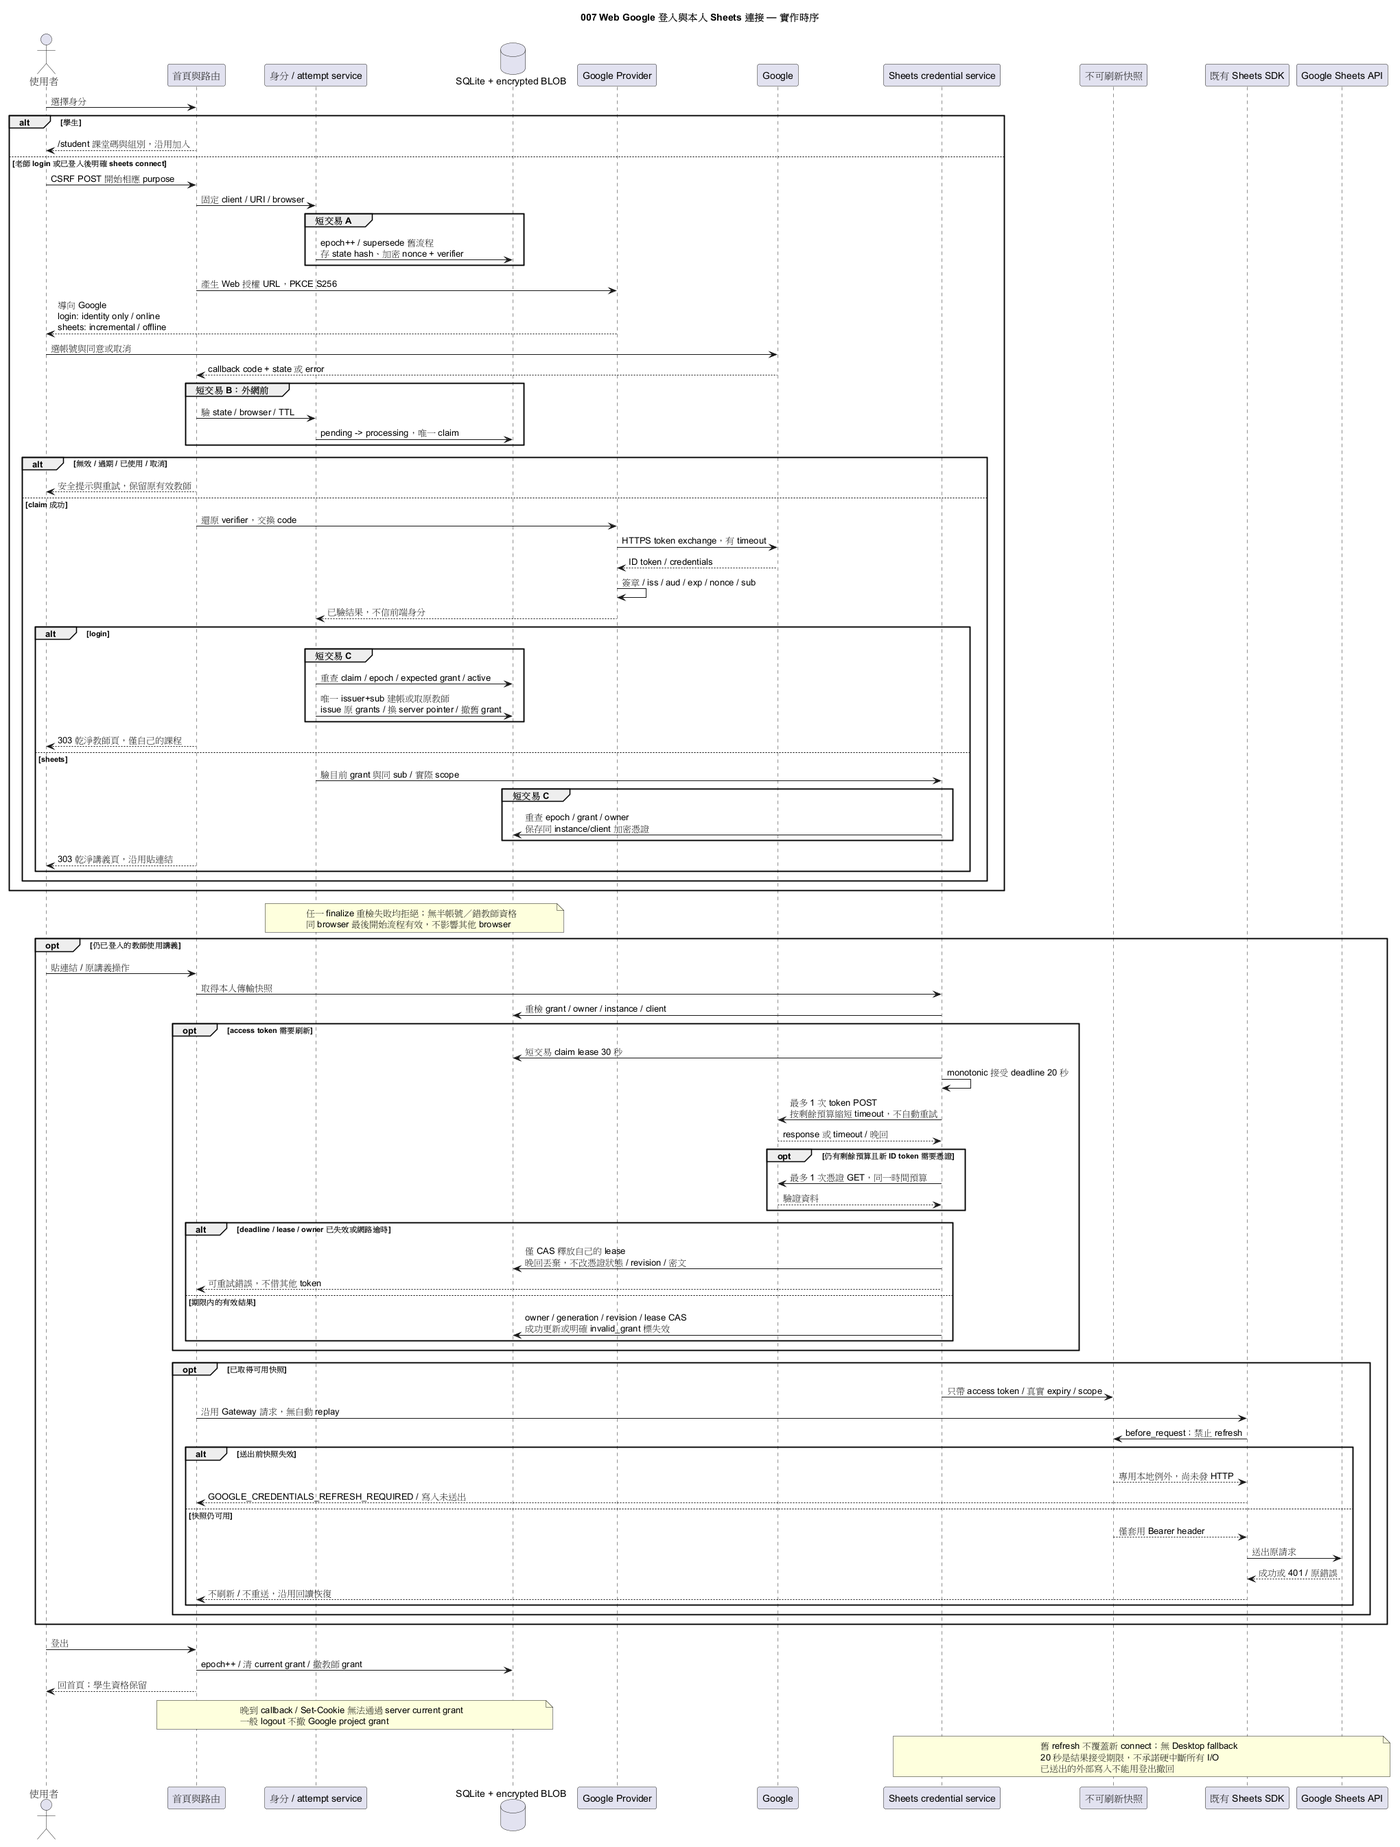
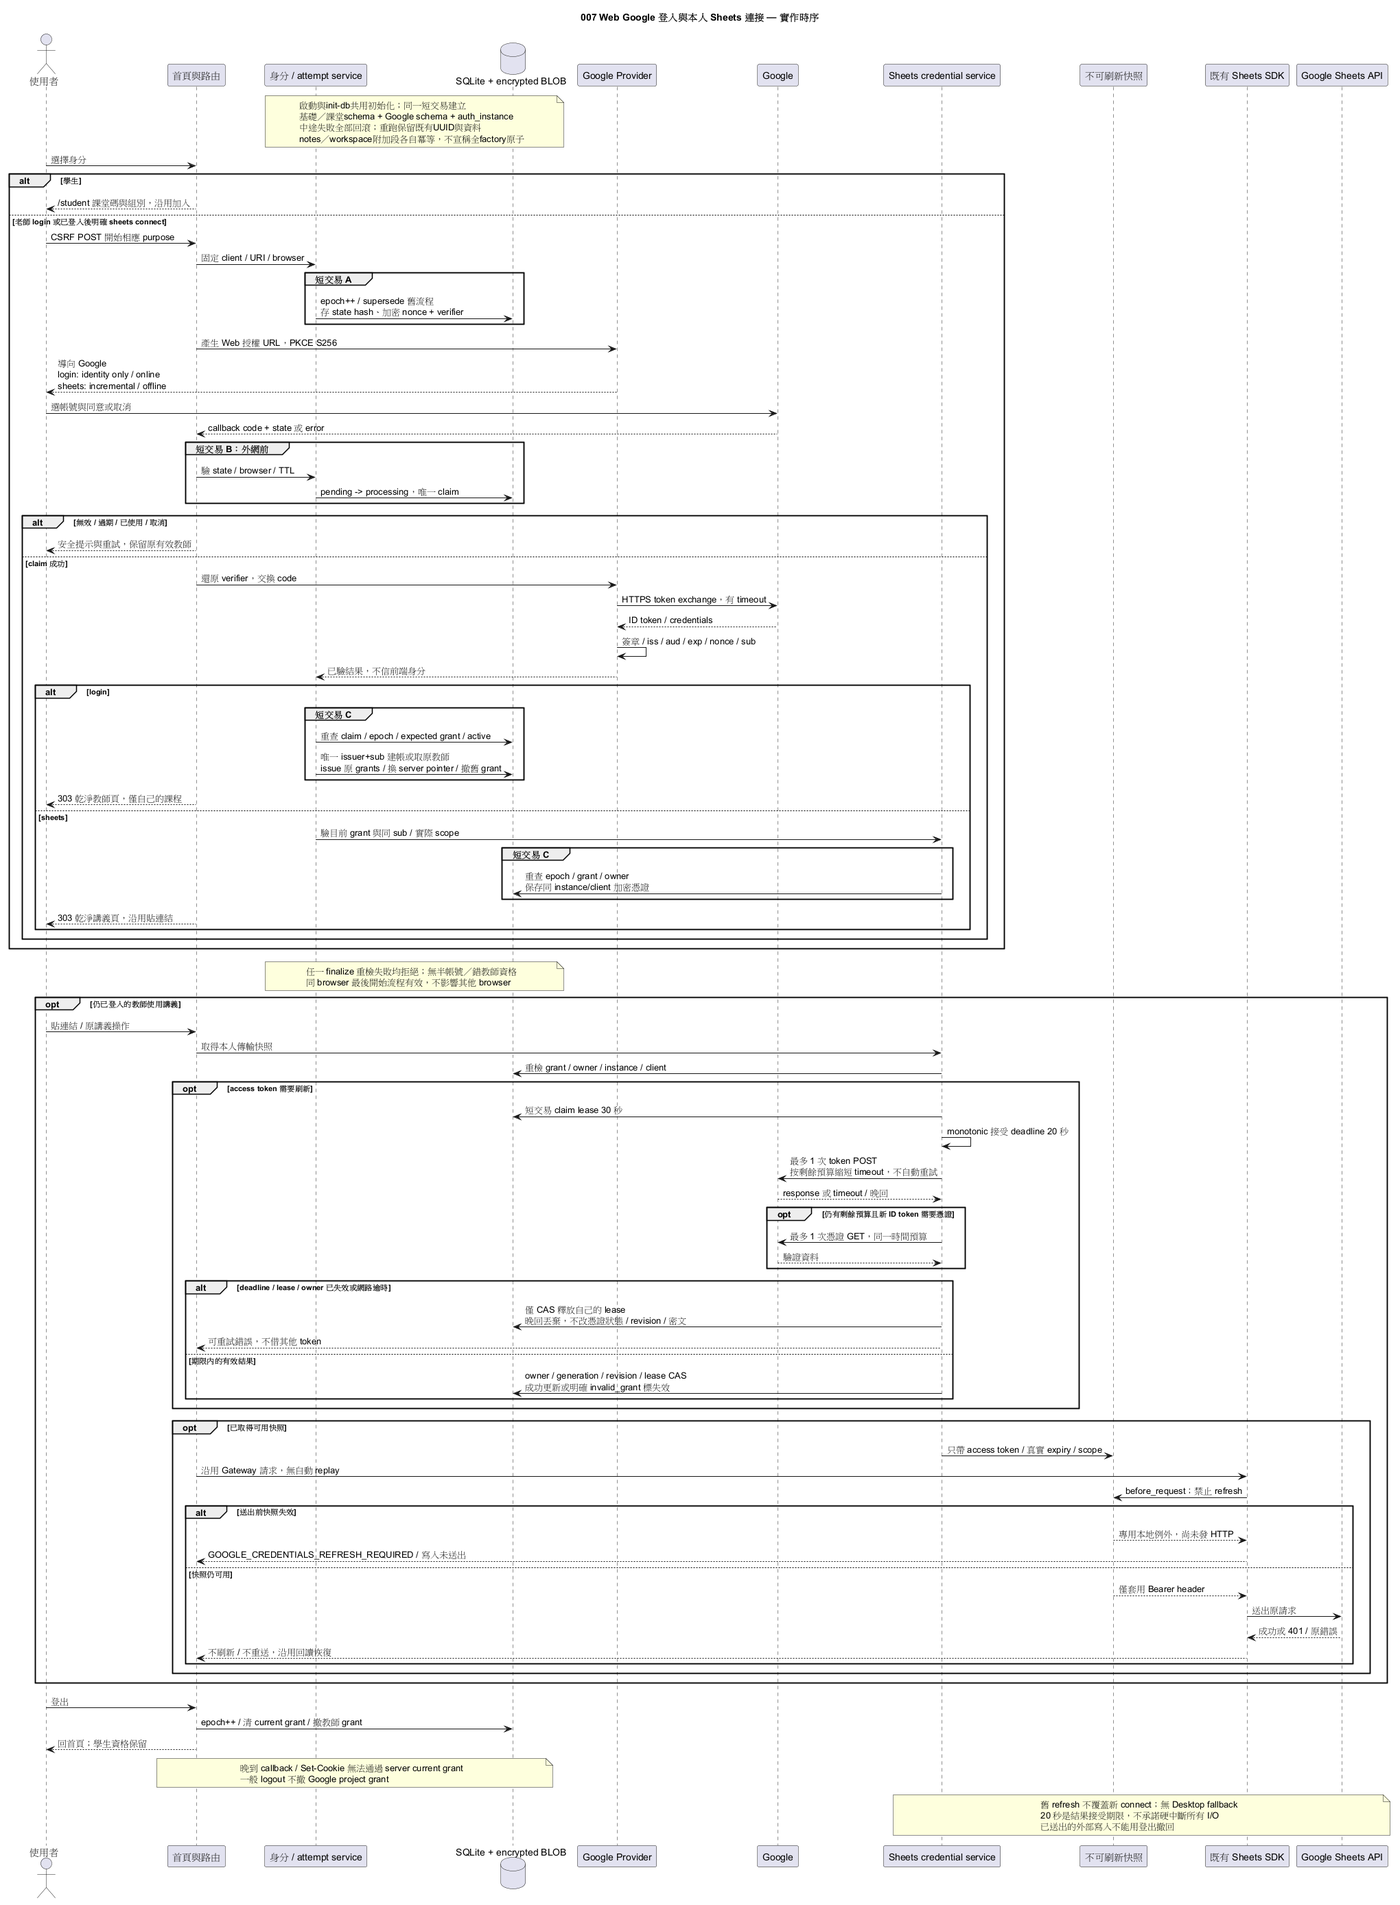
fix: initialize core and Google identity schema atomically

diff --git a/src/guided_notes/db.py b/src/guided_notes/db.py
@@ -43,6 +43,40 @@ def write_transaction():
         raise
 
 
+def execute_schema_statements(db, sql):
+    """Execute DDL inside the caller's transaction without script-level commits."""
+    if not db.in_transaction:
+        raise RuntimeError('Schema statements require an active transaction.')
+    statement = ''
+    for line in sql.splitlines(keepends=True):
+        statement += line
+        if sqlite3.complete_statement(statement):
+            db.execute(statement)
+            statement = ''
+    if statement.strip():
+        raise RuntimeError('Incomplete schema statement')
+
+
+def initialize_application_schema():
+    """Core tables and Google database identity form one recoverable unit."""
+    schemas = Path(__file__).parent / 'activities'
+    with write_transaction() as db:
+        tables = {row[0] for row in db.execute("SELECT name FROM sqlite_master WHERE type='table'")}
+        if current_app.config['TEACHER_AUTH_MODE'] == 'google' and tables and 'auth_instance' not in tables:
+            raise RuntimeError('007 Google login requires a new empty database; existing data was preserved.')
+        if current_app.config['CLASSROOM_MODE'] and 'activities' in tables and 'classrooms' not in tables:
+            raise RuntimeError('004 classroom mode requires a separate database; the selected database uses 002.')
+        if not current_app.config['CLASSROOM_MODE'] and 'classrooms' in tables:
+            raise RuntimeError('The selected database uses 004 classroom mode.')
+        sql = (schemas / 'schema.sql').read_text(encoding='utf-8')
+        if current_app.config['CLASSROOM_MODE']:
+            sql += '\n' + (schemas / 'classroom_schema.sql').read_text(encoding='utf-8')
+        execute_schema_statements(db, sql)
+        if current_app.config['TEACHER_AUTH_MODE'] == 'google':
+            from .google_login.repository import initialize
+            initialize(db)
+
+
 def init_app(app):
     Path(app.config["DATABASE"]).resolve().parent.mkdir(parents=True, exist_ok=True)
 
@@ -53,35 +87,13 @@ def init_app(app):
             db.close()
 
     with app.app_context():
-        db = connection()
-        schemas = Path(__file__).parent / "activities"
-        tables = {row[0] for row in db.execute("SELECT name FROM sqlite_master WHERE type='table'")}
-        if app.config['TEACHER_AUTH_MODE'] == 'google' and tables and 'auth_instance' not in tables:
-            # Metadata is deliberately not retrofitted to an old application DB.
-            raise RuntimeError('007 Google login requires a new empty database; existing data was preserved.')
-        if app.config["CLASSROOM_MODE"] and "activities" in tables and "classrooms" not in tables:
-            raise RuntimeError("004 classroom mode requires a separate database; the selected database uses 002.")
-        if not app.config["CLASSROOM_MODE"] and "classrooms" in tables:
-            raise RuntimeError("The selected database uses 004 classroom mode.")
-        sql = (schemas / "schema.sql").read_text(encoding="utf-8")
-        if app.config["CLASSROOM_MODE"]:
-            sql += "\n" + (schemas / "classroom_schema.sql").read_text(encoding="utf-8")
-        db.executescript("BEGIN IMMEDIATE;\n" + sql + "\nCOMMIT;")
-        if app.config['TEACHER_AUTH_MODE'] == 'google':
-            from .google_login.repository import initialize
-            initialize(db)
+        initialize_application_schema()
 
     @app.cli.command("init-db")
     def init_db():
         from .notes.repository import init_schema
-        sql = (Path(__file__).parent / "activities" / "schema.sql").read_text(encoding="utf-8")
-        if app.config["CLASSROOM_MODE"]:
-            sql += "\n" + (Path(__file__).parent / "activities" / "classroom_schema.sql").read_text(encoding="utf-8")
-        connection().executescript("BEGIN IMMEDIATE;\n" + sql + "\nCOMMIT;")
+        initialize_application_schema()
         init_schema()
-        if app.config['TEACHER_AUTH_MODE'] == 'google':
-            from .google_login.repository import initialize
-            initialize(connection())
         if app.config["TEACHER_AUTH_MODE"] == "google" and app.config["CLASSROOM_MODE"]:
             from .workspace.repository import initialize as initialize_workspace
             initialize_workspace()

diff --git a/tests/integration/test_google_schema_atomicity.py b/tests/integration/test_google_schema_atomicity.py
@@ -1,0 +1,56 @@
+"""First-start failures must never leave an apparently legacy Google database."""
+import sqlite3
+import pytest
+from guided_notes import create_app
+from guided_notes.db import connection
+from guided_notes.google_login import repository
+from google_support import google_app,google_teacher,post
+
+
+@pytest.mark.parametrize('classroom_mode',[False,True])
+@pytest.mark.parametrize('failure_point',['before_metadata','after_metadata'])
+def test_interrupted_first_start_rolls_back_and_can_retry(tmp_path,monkeypatch,classroom_mode,failure_point):
+    target=tmp_path/'first-start.sqlite3'
+    config={'TESTING':True,'SECRET_KEY':'synthetic-test-key','TEACHER_AUTH_MODE':'google',
+            'CLASSROOM_MODE':classroom_mode,'DATABASE':str(target)}
+    original=repository.initialize
+    def fail(db):
+        if failure_point=='after_metadata':original(db)
+        raise RuntimeError('injected Google initialization failure')
+    monkeypatch.setattr(repository,'initialize',fail)
+    with pytest.raises(RuntimeError,match='injected Google initialization failure'):create_app(config)
+    with sqlite3.connect(target) as check:
+        assert check.execute("SELECT name FROM sqlite_master WHERE type='table'").fetchall()==[]
+    monkeypatch.setattr(repository,'initialize',original)
+    again=create_app(config)
+    with again.app_context():
+        db=connection()
+        instance=db.execute('SELECT instance_uuid FROM auth_instance').fetchone()[0]
+        assert db.execute('SELECT count(*) FROM auth_instance').fetchone()[0]==1
+        assert db.execute('PRAGMA foreign_key_check').fetchall()==[]
+    restarted=create_app(config)
+    with restarted.app_context():
+        assert connection().execute('SELECT instance_uuid FROM auth_instance').fetchone()[0]==instance
+
+
+def test_init_db_failure_rolls_back_new_schema_and_preserves_existing_data(google_app,google_teacher,monkeypatch):
+    post(google_teacher,'/teacher/courses',title='既有課程')
+    with google_app.app_context():
+        db=connection()
+        before={name:[tuple(row) for row in db.execute('SELECT * FROM '+name)]
+                for name in ('teachers','courses','auth_instance','google_identities')}
+    original=repository.initialize
+    def fail(db):
+        original(db)
+        db.execute('CREATE TABLE partial_init_should_rollback(id INTEGER)')
+        raise RuntimeError('injected init-db failure')
+    monkeypatch.setattr(repository,'initialize',fail)
+    result=google_app.test_cli_runner().invoke(args=['init-db'])
+    assert result.exit_code!=0
+    with google_app.app_context():
+        db=connection()
+        assert not db.in_transaction
+        assert not db.execute("SELECT 1 FROM sqlite_master WHERE name='partial_init_should_rollback'").fetchone()
+        for name,rows in before.items():assert [tuple(row) for row in db.execute('SELECT * FROM '+name)]==rows
+    monkeypatch.setattr(repository,'initialize',original)
+    assert google_app.test_cli_runner().invoke(args=['init-db']).exit_code==0

diff --git a/src/guided_notes/workspace/repository.py b/src/guided_notes/workspace/repository.py
@@ -1,7 +1,6 @@
 """Additive schema and bounded flow cleanup. No application data reset."""
 from pathlib import Path
-import sqlite3
-from ..db import connection, write_transaction
+from ..db import connection, write_transaction, execute_schema_statements
 
 
 def execute_schema(db, sql):
@@ -9,14 +8,7 @@ def execute_schema(db, sql):
         raise RuntimeError('Schema initialization requires its own transaction.')
     db.execute('BEGIN IMMEDIATE')
     try:
-        statement = ''
-        for line in sql.splitlines(keepends=True):
-            statement += line
-            if sqlite3.complete_statement(statement):
-                db.execute(statement)
-                statement = ''
-        if statement.strip():
-            raise RuntimeError('Incomplete schema statement')
+        execute_schema_statements(db, sql)
         db.execute('COMMIT')
     except BaseException:
         db.execute('ROLLBACK')

diff --git a/src/guided_notes/google_login/repository.py b/src/guided_notes/google_login/repository.py
@@ -4,7 +4,7 @@ from uuid import uuid4
 
 from flask import current_app
 
-from ..db import connection
+from ..db import connection, execute_schema_statements
 
 
 def google_mode():
@@ -12,7 +12,7 @@ def google_mode():
 
 
 def initialize(db):
-    db.executescript(Path(__file__).with_name('schema.sql').read_text(encoding='utf-8'))
+    execute_schema_statements(db, Path(__file__).with_name('schema.sql').read_text(encoding='utf-8'))
     db.execute('INSERT INTO auth_instance(singleton,instance_uuid) VALUES(1,?) ON CONFLICT DO NOTHING', (str(uuid4()),))
 
 

diff --git a/specs/008-teacher-course-workspace/validation.md b/specs/008-teacher-course-workspace/validation.md
@@ -203,3 +203,17 @@
 - T075先補4例受控交錯回歸，初跑4 failed／14 passed：外側快取檢查後進度變worksheets_ready／preview_ready或同picking revision已前進，舊請求仍回200覆寫；快取在外側檢查後到期仍被接受。
 - 修正最終write transaction內重驗source_kind、允許status、原revision及cache有效性／owner，晚到回FLOW_STEP_CONFLICT，交易內到期回PICKER_REAUTH_REQUIRED，既有進度與revision不變。沿用原flows.load的教師／grant／browser／course／expiry防線，不在交易內呼叫Google。
 - `.venv/Scripts/python.exe -m pytest tests/unit/test_picker_authorization.py tests/integration/test_import_flow_oauth.py tests/unit/test_import_flow.py -q --tb=short`：24 passed，7.35秒。此為受控交錯及到期注入，不宣稱真人同時網路請求測試。
+
+- T076先補5例故障注入，初跑5 failed：Google metadata建立前／後失敗皆殘留已提交表，CLI init-db失敗也殘留新表。修正db.initialize_application_schema共用原子段及execute_schema_statements（需active transaction），Google schema／auth_instance與基礎／課堂表同commit；workspace附加段沿用獨立交易但共用不提交的DDL執行器。
+- `.venv/Scripts/python.exe -m pytest tests/integration/test_google_schema_atomicity.py tests/integration/test_google_schema.py tests/integration/test_workspace_007_compatibility.py tests/integration/test_classroom_bootstrap.py -q --tb=short`：12 passed，3.21秒。包含Google模式classroom開／關、metadata前／後中斷回滾可重試、重啟UUID保留、CLI故障回滾與原教師／課程保留、populated007密文與catalog保留、不相容舊DB拒絕且檔案不變。
+- 007及008 Sequence圖補初始化交易、Picker快取最終重驗、畫面preview_id、PREVIEW_STALE及SOURCE_CHANGED未保存分支；未新增Component／Class節點或資料關係。先前plan「沒有新增圖表節點」仍成立，本輪將既有防線的時序分支補明；技術圖意需同學複審，未代填通過。
+
+- Java CLI重新渲染diagrams/007-sequence.puml與008-sequence.puml退出碼0；PNG分別2040×2776、1803×3502，Codex檢視圖像確認可讀且無PlantUML錯誤頁。尺寸以Python標準庫讀PNG IHDR核對，未為圖片檢查安裝新套件；venv無PIL，先前PIL尺寸輔助檢查失敗不影響CLI結果。
+- 最終全套Python回歸正在執行；11檔Node包含新import-confirm回歸已26 passed、0 failed、退出碼0。本輪仍沒有直接操作真實DB或Google憑證，不代勾原聚合人工驗收；同學複審尚未回報。
+
+### PR #7 修正最終回歸（2026-11-26）
+
+- `.venv/Scripts/python.exe -m pytest tests -q --tb=short`：414 passed、98 subtests passed，148.39秒，退出碼0。相較本輪開始404個tests增加10例；此後未再修改產品程式。
+- `node --test tests/workspace-navigation.test.cjs tests/import-menu.test.cjs tests/import-confirm.test.cjs tests/picker-flow.test.cjs tests/identity-ui.test.cjs tests/student-question-text.test.cjs tests/classroom-preview.test.cjs tests/classroom-sync.test.cjs tests/classroom-recovery.test.cjs tests/activity-sync.test.cjs tests/notes-ui.test.cjs`：26 passed、0 failed，退出碼0。
+- `git diff --check`通過；相較原PR head 276ec55的23份變更文字檔掃描Google API key／GitHub token／私鑰標頭樣式，0命中，不輸出憑證值。非通用秘密不存在證明；ignored真實DB／JSON／key／token未納入提交。
+- T074–T076自動修正完成；007／008 Sequence差異待同學複審，原聚合人工／雙組確認與正式003整合任務不代勾。維持Draft、不合併、不關Issue；PR說明更新含本機驗收、六筆待推送commit及本次三項修正。

diff --git a/specs/008-teacher-course-workspace/quickstart.md b/specs/008-teacher-course-workspace/quickstart.md
@@ -105,7 +105,7 @@ set "GUIDED_NOTES_GOOGLE_PICKER_CLIENT_SECRETS="
 set "GUIDED_NOTES_PICKER_API_KEY="
 set "GUIDED_NOTES_PICKER_APP_ID="
 .venv\Scripts\python.exe -m pytest tests -q
-node --test tests/workspace-navigation.test.cjs tests/import-menu.test.cjs tests/picker-flow.test.cjs tests/identity-ui.test.cjs tests/student-question-text.test.cjs tests/classroom-preview.test.cjs tests/classroom-sync.test.cjs tests/classroom-recovery.test.cjs tests/activity-sync.test.cjs tests/notes-ui.test.cjs
+node --test tests/workspace-navigation.test.cjs tests/import-menu.test.cjs tests/import-confirm.test.cjs tests/picker-flow.test.cjs tests/identity-ui.test.cjs tests/student-question-text.test.cjs tests/classroom-preview.test.cjs tests/classroom-sync.test.cjs tests/classroom-recovery.test.cjs tests/activity-sync.test.cjs tests/notes-ui.test.cjs
 ```
 
 新增case至少包含：populated007初始化兩次／中途失敗rollback／密文及UUID保留、舊JSON路由、所有可見性入口、remove↔activity/version屏障競態、confirmed重送、同source新UUID、歷史unknown恢復、窄scope/client/profile／加密用途錯配、flow/grant/claim/ticket重放晚回、reconnect先完成後selection晚回、008 flow留存超過24小時後新login／authorize可清attempt不受FK阻擋、取消／expired preview從舊notes URL確認仍被拒、header／log無秘密。
@@ -118,3 +118,10 @@ node --test tests/workspace-navigation.test.cjs tests/import-menu.test.cjs tests
 - 原分頁／名稱不改重送，取得同preview_id且沒有重讀。直接換sheet或名稱重送回FLOW_STEP_CONFLICT，不回舊預覽冒充新內容。
 - 真人：按「重新選擇／修改名稱」，確認保留原表單輸入、舊預覽失效；改選／改名並明確建新預覽。舊choice_revision、原notes舊確認URL均不能出版，完成後無修改入口。
 - 自動屏障驗revise↔confirm與雙retry，並比較confirm的existing_import_id；真人操作不能代替這些競態測試。各結果在implement後如實記錄，不預填通過。
+
+## PR #7 修正後複審
+
+- 同一匯入flow網址分別開A／B分頁，A保留舊預覽；B用「重新選擇／修改名稱」建立新預覽。回A按確認，應提示PREVIEW_STALE且沒有保存；B核對後明確確認才保存。不能用兩個不同flow代替這個情境。
+- Picker晚到請求與初始化中斷以受控測試重現：`tests/unit/test_picker_authorization.py`、`tests/integration/test_google_schema_atomicity.py`。不要求人工修改真實DB或撤銷Google授權來造故障。
+- 新的空白DB初始化失敗會回滾基礎／Google原子段，修正故障後可重試；既有007 DB不清空、不更換key。notes／workspace仍各自附加交易，不能宣稱整個app factory全原子。
+- 圖意差異見007／008 Sequence，須由同學複審；本輪沒有代填其他人工／雙組確認任務。

diff --git a/specs/008-teacher-course-workspace/tasks.md b/specs/008-teacher-course-workspace/tasks.md
@@ -212,4 +212,4 @@ Cloud／真人／互審未能執行時，仍可整理T071/T072的缺口與草稿
 
 - [X] T074 確認表單固定使用畫面渲染時的preview_id，不在提交前GET最新ID；補前端雙分頁及HTTP舊確認拒絕／無誤存回歸，保留來源變動須再次確認的提示。
 - [X] T075 Picker快取授權在寫入交易內重驗flow階段、revision與cache，拒絕晚到請求倒退流程；補階段前進與同階段版本更新的交錯測試。
-- [ ] T076 基礎／課堂schema與Google身分schema、auth_instance同交易初始化，啟動與init-db共用；補中途故障回滾、重試、重跑UUID／既有資料保留及不相容舊DB拒絕測試。
+- [X] T076 基礎／課堂schema與Google身分schema、auth_instance同交易初始化，啟動與init-db共用；補中途故障回滾、重試、重跑UUID／既有資料保留及不相容舊DB拒絕測試。

diff --git a/specs/008-teacher-course-workspace/analysis.md b/specs/008-teacher-course-workspace/analysis.md
@@ -19,3 +19,7 @@
 ## 可重現證據
 
 最終Python391 passed／98 subtests、Node24 passed、三圖CLI與diff檢查詳validation.md。實際產品以worktree為版本，HEAD起點見該檔；無commit/push。extensions.yml不存在，無before/after hooks。
+
+## PR #7 審查修正核對（2026-11-26）
+
+review 6070380173三項問題已由受控重現及先失敗回歸確認，按T074–T076修正：畫面preview_id固定、Picker交易內status/revision/cache重驗、core/Google初始化同交易。414 Python tests、98 subtests、26 Node tests通過；007／008 Sequence已補交易及拒絕分支，與既有Component／Class責任一致。這是本輪三項修正的對照檢查，不冒充新的完整speckit-analyze／converge流程或同學核准；前述人工／外部確認缺口仍有效，PR維持Draft待複審。
